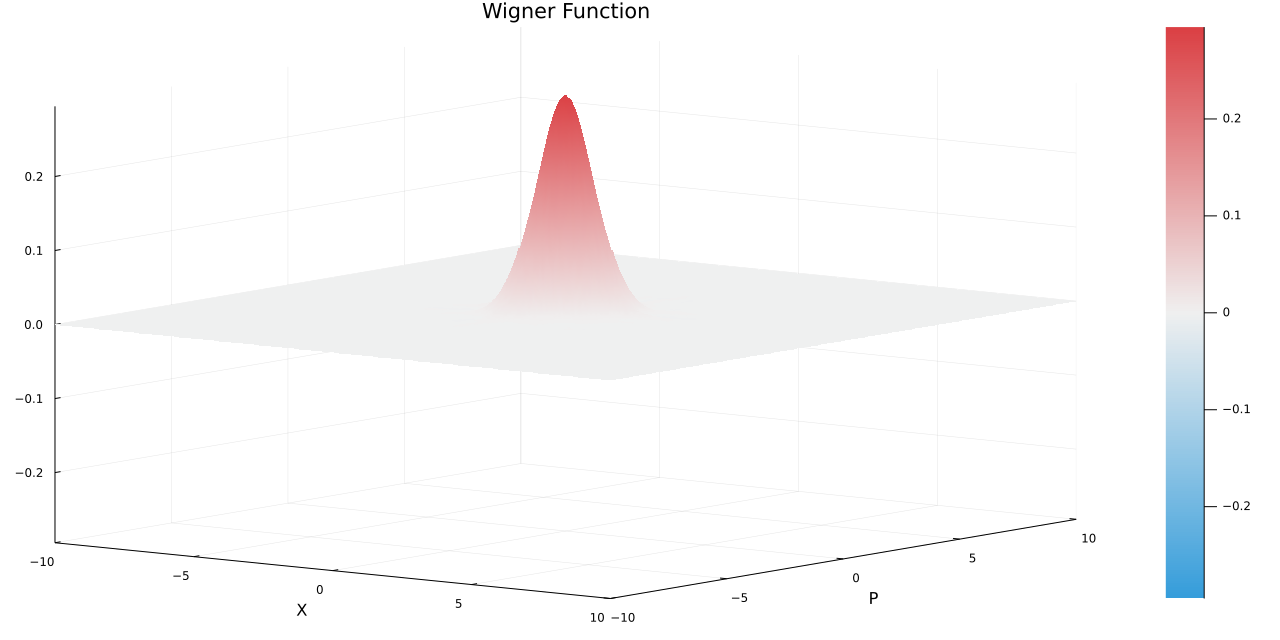
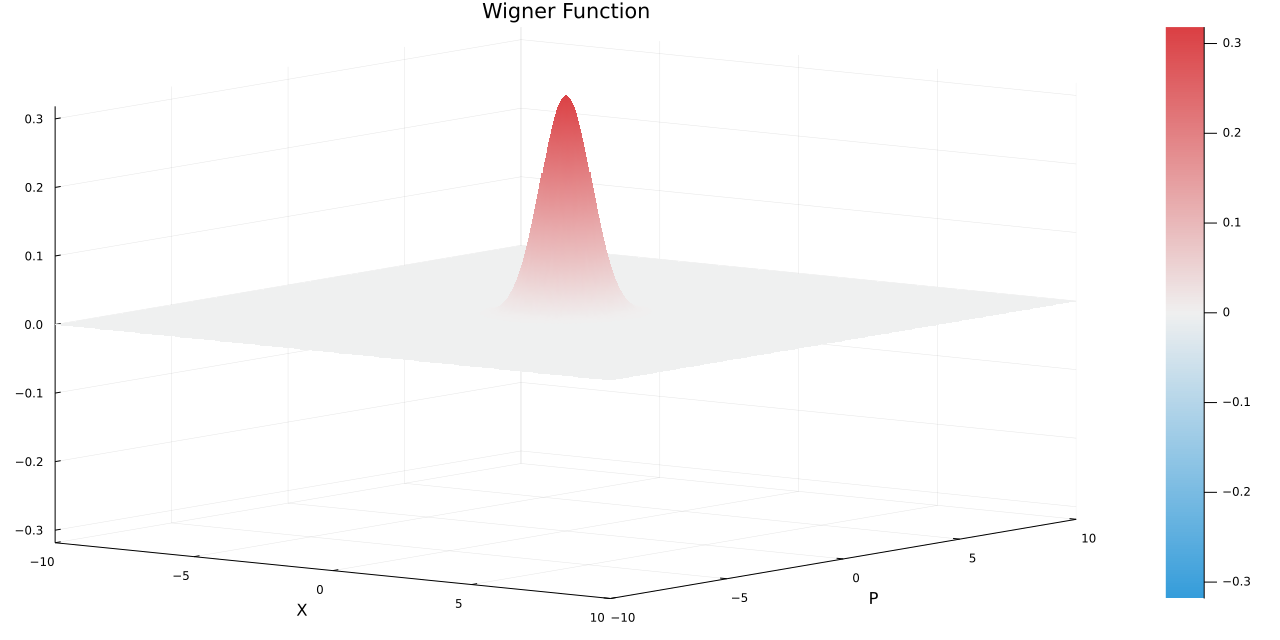
update readme plot state

diff --git a/README.md b/README.md
@@ -10,7 +10,7 @@ Squeezed state solver for quantum optics.
 [![Code Style: Blue](https://img.shields.io/badge/code%20style-blue-4495d1.svg)](https://github.com/invenia/BlueStyle)
 ![GitHub](https://img.shields.io/github/license/foldfelis/SqState.jl)
 
-![](gallery/wigner_surface_banner.png)
+![](gallery/wigner_surface_|0>.png)
 
 ## Initial Wigner Function
 
@@ -168,5 +168,28 @@ julia> ρ(FockState(3))
  0+0im  0+0im  0+0im    0+0im       0+0im  0+0im  0+0im  0+0im  0+0im
  0+0im  0+0im  0+0im    0+0im       0+0im  0+0im  0+0im  0+0im  0+0im
  0+0im  0+0im  0+0im    0+0im       0+0im  0+0im  0+0im  0+0im  0+0im
-
 ```
+
+## Plot state
+
+### Rander state
+
+```julia
+julia> w = wf(ρ(SinglePhotonState()));
+```
+
+### Plot **Surface** of the state
+
+```julia
+julia> plot_wigner(wf, w, Surface, size=(640, 320))
+```
+
+![](gallary/../gallery/wigner_surface_|1>.png)
+
+### Plot **Contour** of the state
+
+```julia
+julia> plot_wigner(wf, w, Contour, size=(640, 600))
+```
+
+![](gallary/../gallery/wigner_contour_|1>.png)
